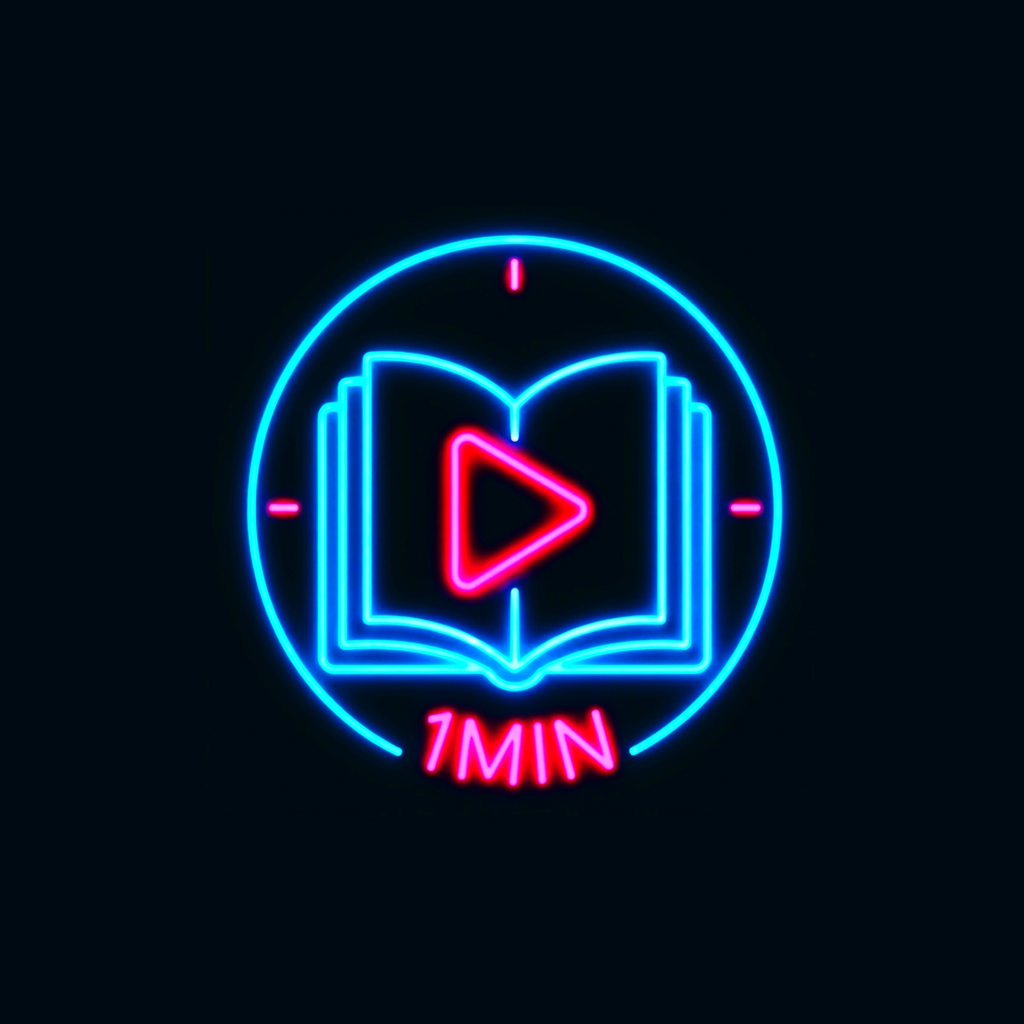
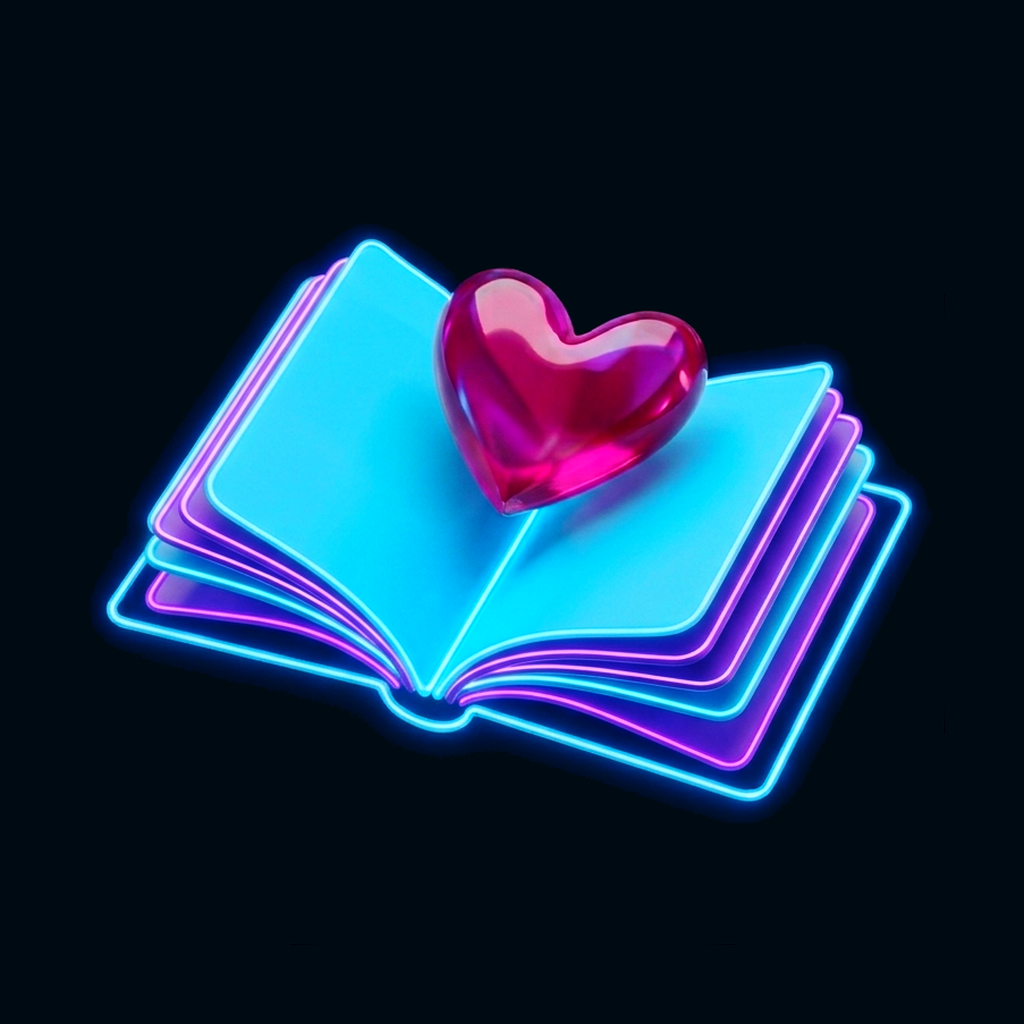
todo listo

diff --git a/app/(tabs)/discover.tsx b/app/(tabs)/discover.tsx
@@ -1,6 +1,7 @@
 import React, { useEffect, useRef, useState, useCallback, useMemo } from "react";
 import { View, Text, StyleSheet, TouchableOpacity, Image, Dimensions, ActivityIndicator, Platform, Linking, ScrollView, Modal, FlatList, LayoutChangeEvent } from "react-native";
 import { useSafeAreaInsets } from "react-native-safe-area-context";
+import { useBottomTabBarHeight } from "@react-navigation/bottom-tabs";
 import { Ionicons, MaterialCommunityIcons } from "@expo/vector-icons";
 import { createAudioPlayer } from "expo-audio";
 import{  useLocalSearchParams, useRouter } from "expo-router";
@@ -14,18 +15,6 @@ import { captureAndShare } from "../../src/lib/share";
 import { LinearGradient } from 'expo-linear-gradient';
 
 const { width: SCREEN_W, height: SCREEN_H } = Dimensions.get("window");
-
-// Altura real del tab bar definida en (tabs)/_layout.tsx:
-// height: 70 + paddingTop: 8 + paddingBottom: 12 = 90.
-// Como el tabBarStyle NO es position:"absolute", esta altura SÍ resta
-// espacio real al contenido de esta pantalla. La sacamos a una constante
-// con nombre en vez de un número suelto, y la restamos UNA sola vez aquí,
-// para que el resto del archivo no tenga que volver a adivinarla.
-const TAB_BAR_HEIGHT = 90;
-
-// Altura real disponible para cada slide. Sustituye a SCREEN_H en todo
-// lo que tenga que ver con el tamaño/posicionamiento de un slide individual.
-const SLIDE_H = SCREEN_H - TAB_BAR_HEIGHT;
 
 const MOOD_MAP: Array<{ kw: RegExp; label: string; icon: string; color: string }> = [
   { kw: /(thriller|terror|negra|policial|crimen|suspense|misterio)/i, label: "Intenso", icon: "🔥", color: colors.iron },
@@ -48,6 +37,18 @@ export default function Discover() {
   const lang = (user?.lang || "es") as "es" | "en";
   const insets = useSafeAreaInsets();
   const router = useRouter();
+
+  // Altura REAL del tab bar, medida en tiempo de ejecución por el propio
+  // react-navigation — ya incluye cualquier insets.bottom adicional que
+  // (tabs)/_layout.tsx sume internamente (ver ese archivo: ahora el
+  // tabBarStyle ya no usa números fijos, sino height/padding que crecen
+  // según insets.bottom real del dispositivo). Antes esto era una
+  // constante fija (TAB_BAR_HEIGHT = 90) que asumía un solo tipo de
+  // dispositivo; con este hook, SLIDE_H siempre coincide con el espacio
+  // real que el tab bar deja libre, sea cual sea el dispositivo.
+  const tabBarHeight = useBottomTabBarHeight();
+  const SLIDE_H = SCREEN_H - tabBarHeight;
+
   const params = useLocalSearchParams<{ q?: string; book_id?: string; random?: string }>();
   const query = (params.q || "").toString();
   const seedBookId = (params.book_id || "").toString();
@@ -268,7 +269,7 @@ await Image.prefetch(coverUrl);
         windowSize={3}
         maxToRenderPerBatch={2}
         initialNumToRender={1}
-        renderItem={({ item }) => <BookSlide book={item} reservedBottom={buyRowHeight} />}
+        renderItem={({ item }) => <BookSlide book={item} reservedBottom={buyRowHeight} slideHeight={SLIDE_H} />}
         testID="vertical-feed"
       />
 
@@ -299,16 +300,18 @@ await Image.prefetch(coverUrl);
       {/*
         buyRow sigue flotante y fijo, EXACTAMENTE igual que sideButtons:
         position absolute, fuera del FlatList, no se mueve al pasar de libro.
-        Lo único que cambia respecto al original es el cálculo de `bottom`:
-        antes era -23 (número inventado, anclado a SCREEN_H completo).
-        Ahora es insets.bottom puro: la distancia real y segura desde el
-        borde físico de la pantalla, válida en cualquier dispositivo.
-        onLayout mide su altura real para que BookSlide pueda reservarle
-        hueco exacto y nunca lo tape la portada.
+        IMPORTANTE: bottom ya NO suma insets.bottom aquí. Antes sí lo hacía,
+        pero ahora SLIDE_H (más arriba) ya resta tabBarHeight completo —
+        y tabBarHeight YA incluye su propio insets.bottom interno (ver
+        (tabs)/_layout.tsx). Sumar insets.bottom otra vez aquí contaba ese
+        espacio DOS veces, dejando un hueco negro de más entre buyRow y el
+        tab bar en dispositivos con barra de navegación clásica (insets.bottom
+        grande). Con solo un pequeño margen fijo de aire, queda igual de
+        seguro pero sin doble conteo.
       */}
       <View
-style={[styles.buyRow, { bottom: Math.min(insets.bottom, 20) - 8 }]}
-pointerEvents="box-none"
+        style={[styles.buyRow, { bottom: 6 }]}
+        pointerEvents="box-none"
         onLayout={onBuyRowLayout}
       >
 
@@ -355,7 +358,7 @@ pointerEvents="box-none"
   );
 }
 
-function BookSlide({ book, reservedBottom }: { book: Book; reservedBottom: number }) {
+function BookSlide({ book, reservedBottom, slideHeight }: { book: Book; reservedBottom: number; slideHeight: number }) {
   const insets = useSafeAreaInsets();
   const mood = useMemo(() => inferMood(book), [book]);
   const coverW = SCREEN_W * 0.88;
@@ -366,11 +369,11 @@ function BookSlide({ book, reservedBottom }: { book: Book; reservedBottom: numbe
   // y SOLO DESPUÉS añadimos los 45 que topBadgesRow necesita "subir" desde
   // coverWrap (porque topBadgesRow es absolute con top:-45 relativo a
   // coverWrap, no a slide — son dos espacios distintos, no se solapan).
-  const topBarSpace = insets.top + 8 + 38 + 10; // +8 de aire entre topBar y badges
+  const topBarSpace = insets.top + 8 + 38 + 8; // +8 de aire entre topBar y badges
   const slidePaddingTop = topBarSpace + 45;
 
   return (
-    <View style={[styles.slide, { width: SCREEN_W, height: SLIDE_H, paddingTop: slidePaddingTop }]}>
+    <View style={[styles.slide, { width: SCREEN_W, height: slideHeight, paddingTop: slidePaddingTop }]}>
       {/*
         coverArea: flex:1. Se lleva TODO el espacio que sobra después de
         reservar paddingTop (sitio real para topBar + sitio para
@@ -445,12 +448,12 @@ function BookSlide({ book, reservedBottom }: { book: Book; reservedBottom: numbe
 
       {/*
         Spacer invisible: reserva exactamente la altura real medida del
-        buyRow flotante (+ el mismo insets.bottom+8 que usa buyRow), para
+        buyRow flotante (+ el mismo margen fijo de 6 que usa buyRow), para
         que coverArea (flex:1) nunca calcule de más y la portada no quede
         nunca tapada por los botones de compra fijos.
         No es clicable, no tiene contenido — es aire reservado en el flujo.
       */}
-<View style={{ height: reservedBottom + Math.min(insets.bottom, 20) - 8 }} pointerEvents="none" />
+      <View style={{ height: reservedBottom + 6 }} pointerEvents="none" />
     </View>
   );
 }

diff --git a/src/components/Logo.tsx b/src/components/Logo.tsx
@@ -1,6 +1,5 @@
 import React from "react";
-import { View, Text, StyleSheet, Platform } from "react-native";
-import { Ionicons } from "@expo/vector-icons";
+import { View, Text, StyleSheet, Platform, Image } from "react-native";
 import { colors } from "../theme";
 
 type Size = "sm" | "md" | "lg";
@@ -11,16 +10,32 @@ const sizeMap: Record<Size, { font: number; icon: number; gap: number; glow: num
   lg: { font: 46, icon: 42, gap: 0, glow: 18 },
 };
 
+// Proporción real del PNG (book-heart-icon.png): 2162x1952.
+// Se usa para que el icono nunca se deforme, sea cual sea su tamaño.
+const ICON_RATIO = 2162 / 1952;
+
 export default function Logo({ size = "md" }: { size?: Size }) {
   const s = sizeMap[size];
   return (
     <View style={[styles.row, { gap: s.gap }]} testID="app-logo">
       <Text style={[styles.cyan, { fontSize: s.font, textShadowColor: colors.brass, textShadowOffset: { width: 0, height: 0 }, textShadowRadius: s.glow }]}>Click</Text>
       <Text style={[styles.purple, { fontSize: s.font, textShadowColor: colors.copper, textShadowOffset: { width: 0, height: 0 }, textShadowRadius: s.glow }]}>Book</Text>
-      <View style={[styles.iconWrap, { width: s.icon + 4, height: s.icon + 4, marginLeft: 14 }]}>
-        <Ionicons name="book" size={s.icon} color={colors.copper} style={{ position: "absolute", top: 2, left: 2, ...(Platform.OS === "web" ? { filter: `drop-shadow(0 0 ${s.glow}px ${colors.copper})` as any } : {}) }} />
-        <Ionicons name="book" size={s.icon} color={colors.brass} style={{ position: "absolute", top: 0, left: 0, opacity: 0.85, ...(Platform.OS === "web" ? { filter: `drop-shadow(0 0 ${s.glow}px ${colors.brass})` as any } : {}) }} />
-      </View>
+      {/*
+        Icono del libro+corazón: antes eran dos <Ionicons name="book"> superpuestos
+        (el libro genérico de la librería de iconos). Ahora es una sola imagen real
+        del logo (mismo PNG que en el onboarding "Elige tu vibe"), en tamaño FIJO
+        en puntos según `size` (sm/md/lg) — igual que el texto, no en porcentaje de
+        pantalla — para que se vea exactamente igual en cualquier dispositivo.
+      */}
+      <Image
+        source={require("../../assets/images/book-heart-icon.png")}
+        style={{
+          width: s.icon + 4,
+          height: (s.icon + 4) / ICON_RATIO,
+          marginLeft: 14,
+        }}
+        resizeMode="contain"
+      />
     </View>
   );
 }
@@ -29,5 +44,4 @@ const styles = StyleSheet.create({
   row: { flexDirection: "row", alignItems: "center", justifyContent: "center" },
   cyan: { color: colors.brass, fontWeight: "900", letterSpacing: 0.5, fontFamily: Platform.select({ ios: "Helvetica", android: "sans-serif-black", default: "system-ui" }) },
   purple: { color: colors.copper, fontWeight: "900", letterSpacing: 0.5, fontFamily: Platform.select({ ios: "Helvetica", android: "sans-serif-black", default: "system-ui" }) },
-  iconWrap: { position: "relative", alignItems: "center", justifyContent: "center" },
 });

diff --git a/app/(tabs)/_layout.tsx b/app/(tabs)/_layout.tsx
@@ -3,12 +3,14 @@ import { Tabs } from "expo-router";
 import { useRouter } from "expo-router";
 import { Ionicons } from "@expo/vector-icons";
 import { View, ActivityIndicator, StyleSheet } from "react-native";
+import { useSafeAreaInsets } from "react-native-safe-area-context";
 import { useAuth } from "../../src/providers/AuthProvider";
 import { colors } from "../../src/theme";
 
 export default function TabsLayout() {
   const { user, loading } = useAuth();
   const router = useRouter();
+  const insets = useSafeAreaInsets();
 
   useEffect(() => {
     if (!loading && !user) router.replace("/");
@@ -22,6 +24,24 @@ export default function TabsLayout() {
     );
   }
 
+  // Antes: paddingBottom: 12 fijo. Eso solo deja sitio de sobra en
+  // dispositivos con barra de gestos (donde insets.bottom es pequeño),
+  // pero en dispositivos con barra de navegación clásica (botones físicos
+  // de atrás/inicio/recientes) insets.bottom es mucho más grande, y esos
+  // 12px fijos no alcanzan — el resultado es que la barra del sistema se
+  // dibuja ENCIMA de los labels de los tabs (DESCUBRIR, FAVORITOS, etc.),
+  // tapándolos parcialmente, como se vio en las capturas de varios
+  // dispositivos de prueba.
+  //
+  // Ahora: sumamos insets.bottom real al padding base. En dispositivos
+  // con gestos, insets.bottom suele ser pequeño (~10-20), así que el
+  // resultado es casi idéntico a antes. En dispositivos con barra clásica,
+  // insets.bottom es mayor (~24-48 según el fabricante), y ese espacio
+  // extra empuja el contenido del tab bar hacia arriba lo justo para
+  // quedar siempre por encima de los botones del sistema, sin solape.
+  const tabBarHeight = 70 + insets.bottom;
+  const tabBarPaddingBottom = 12 + insets.bottom;
+
   return (
     <Tabs
       screenOptions={{
@@ -30,8 +50,8 @@ export default function TabsLayout() {
           backgroundColor: colors.bgSurface,
           borderTopColor: colors.border,
           borderTopWidth: 1,
-          height: 70,
-          paddingBottom: 12,
+          height: tabBarHeight,
+          paddingBottom: tabBarPaddingBottom,
           paddingTop: 8,
         },
         tabBarActiveTintColor: colors.brass,

diff --git a/app/onboarding.tsx b/app/onboarding.tsx
@@ -11,6 +11,7 @@ import {
   Platform,
   Animated,
   Easing,
+  Image,
 } from "react-native";
 import { useSafeAreaInsets } from "react-native-safe-area-context";
 import { useRouter } from "expo-router";
@@ -19,6 +20,7 @@ import AsyncStorage from "@react-native-async-storage/async-storage";
 import { LinearGradient } from "expo-linear-gradient";
 import MaskedView from "@react-native-masked-view/masked-view";
 import { colors } from "../src/theme";
+
 
 const { width, height } = Dimensions.get("window");
 const HERO = Math.min(260, height * 0.32);
@@ -300,9 +302,11 @@ function SlideVibes() {
         <Sparkle anim={sparkle1} style={styles.sparkleTopLeft} size={14} color={colors.copper} />
         <Sparkle anim={sparkle2} style={styles.sparkleTopRight} size={10} color={colors.brass} />
         <Sparkle anim={sparkle3} style={styles.sparkleBottomLeft} size={12} color={colors.copper} />
-
-        <Ionicons name="book-outline" size={104} color={colors.brass} style={styles.vibeBookIcon} />
-        <Ionicons name="heart" size={52} color={colors.copper} style={styles.vibeHeartIcon} />
+        <Image
+          source={require("../assets/images/onboarding-vibe-icon-square.png")}
+          style={{ width: 100, height: 100 }}
+          resizeMode="contain"
+        />
       </View>
     </SlideContainer>
   );

diff --git a/app/(tabs)/favorites.tsx b/app/(tabs)/favorites.tsx
@@ -78,7 +78,11 @@ export default function Favorites() {
       </View>
       {books.length === 0 ? (
         <View style={styles.empty}>
-          <Ionicons name="book-outline" size={64} color={colors.brass} />
+<Image
+  source={require("../../assets/images/empty-favorites-logo.png")}
+  style={styles.emptyLogo}
+  resizeMode="contain"
+/>
           <Text style={styles.emptyText}>Aún no has guardado ningún libro.</Text>
           <Text style={styles.emptyHint}>Marca el corazón para guardar favoritos.</Text>
         </View>
@@ -199,7 +203,7 @@ const styles = StyleSheet.create({
     paddingHorizontal: 10,
     paddingVertical: 6,
     borderRadius: 999,
-  },
+},
   buyText: { color: colors.brass, fontSize: 11, fontWeight: "700" },
   removeBtn: {
     padding: 8,
@@ -207,4 +211,5 @@ const styles = StyleSheet.create({
     borderColor: "rgba(138,42,32,0.4)",
     borderRadius: 999,
   },
+  emptyLogo: { width: 100, height: 100, marginBottom: 8 },
 });